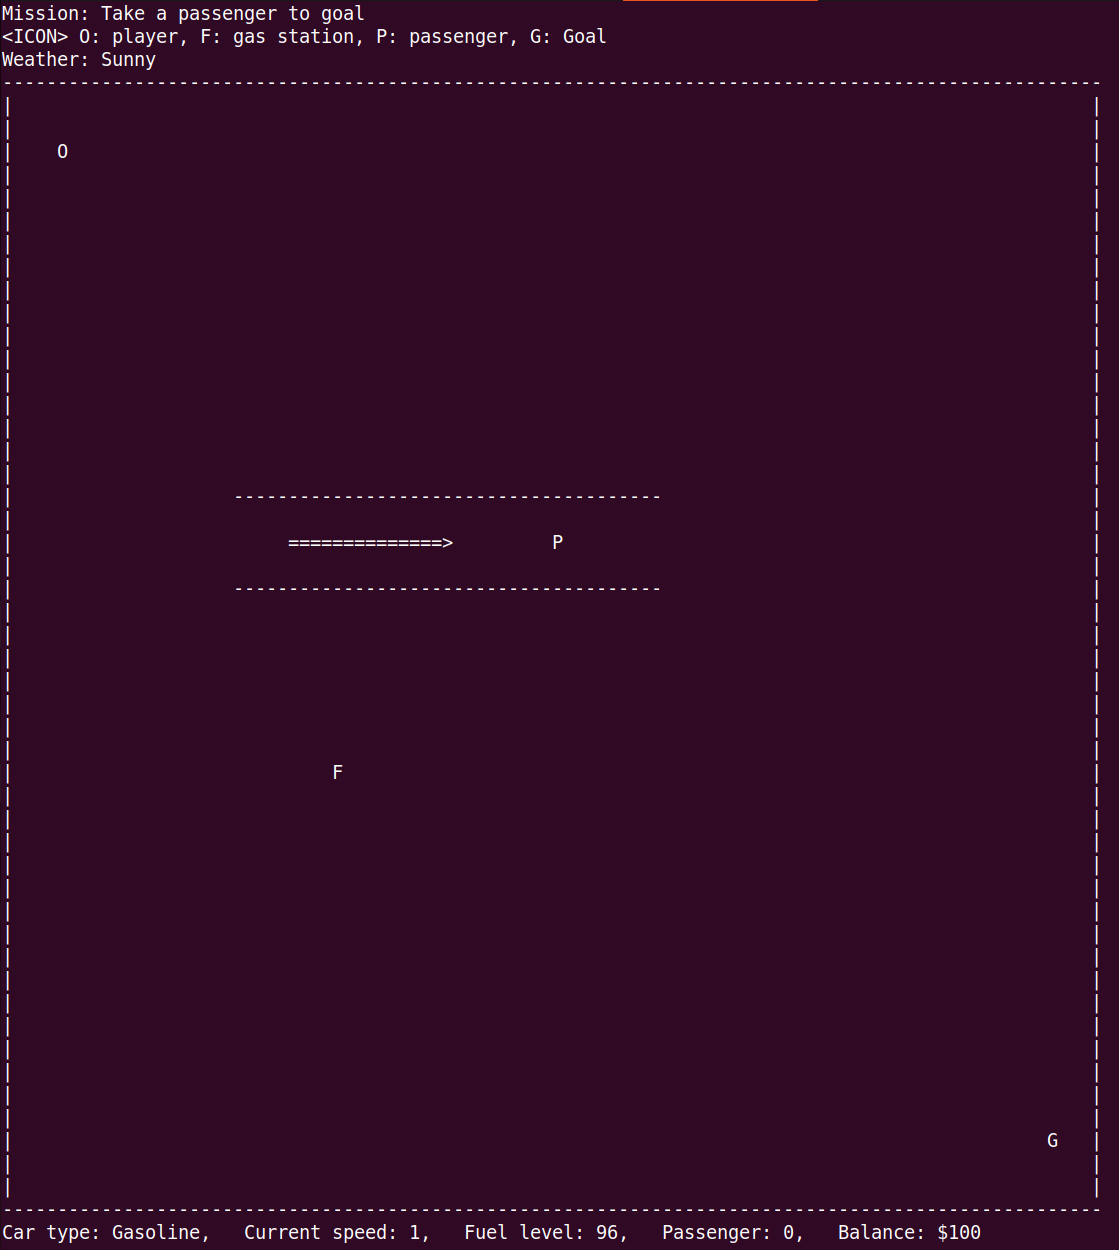
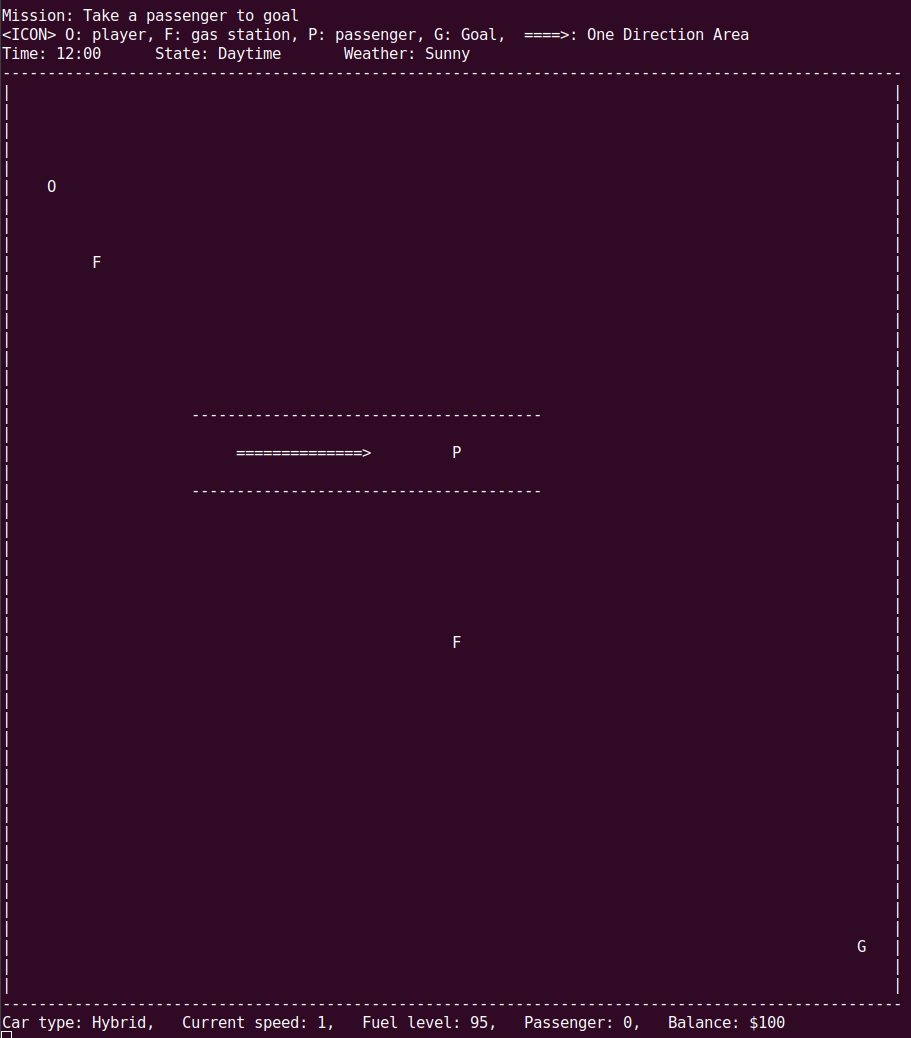
Update comments

diff --git a/src/main.cpp b/src/main.cpp
@@ -5,28 +5,33 @@
 #include <string>
 #include "Player.h"
 
+// 地図の大きさの設定
 const int row = 50;
 const int column = 100;
-const int reload_time = 1000;
+const int reload_time = 1000; // 地図を読み込む時間の設定
+// 地図のアイコンの設定
 const char fuel_station_icon = 'F';
 const char passenger_icon = 'P';
 const char goal_icon = 'G';
 const char player_icon = 'O';
+
+// 罰金等の設定
 const int gas_price = 20;
 const int direction_fine = 50;
 const int speed_limit_fine = 10;
 const int speed_limit = 4;
+
 const int sunrise_time = 7;
 const int sunset_time = 19;
 
 std::atomic_bool inputReady(false);
 std::string input;
 
+// ユーザーからのコマンドの受付
 void getInput() {
     while (true) {
         std::string command;
         std::cin >> command;
-
         if (command != "") {
             input = command;
             inputReady = true;
@@ -34,6 +39,7 @@ void getInput() {
     }
 }
 
+// 最新の状態の道路状況を描画する関数
 void printRace(char array1[row][column]) {
     for (int i = 0; i < row; i++) {
         for (int j = 0; j < column; j++) {
@@ -43,6 +49,7 @@ void printRace(char array1[row][column]) {
     }
 }
 
+// ベースとなる道路の描画の準備
 void initRace(char track[row][column], char padding_char) {
     for (int i = 0; i < row; i++) {
         for (int j = 0; j < column; j++) {
@@ -69,6 +76,7 @@ void initRace(char track[row][column], char padding_char) {
     }
 }
 
+// ガードレールへの衝突判定
 bool detectPosition(int player_position_x, int player_position_y, char track[row][column]){
     if (player_position_x > column || player_position_x < 0){
         return false;
@@ -82,6 +90,7 @@ bool detectPosition(int player_position_x, int player_position_y, char track[row
     return true;
 }
 
+// ユーアーの入力に応じた次のプレイヤーの座標の設定
 bool movePlayer(int& player_position_x, int& player_position_y, const std::string& direction, char track[row][column], Player player) {
     int new_player_position_x = player_position_x;
     int new_player_position_y = player_position_y;
@@ -121,6 +130,7 @@ int main() {
     std::thread inputThread(getInput);
     Player player(car_type);
 
+    // 各ポイントの初期位置の設定
     int player_position_x = 5;
     int player_position_y = 1;
     int fuel_station_1_x = 50;
@@ -138,6 +148,7 @@ int main() {
     std::string day_state;
 
     while (true) {
+        // 時間によって昼、夜の状態を変更
         if (time >= sunrise_time && time <= sunset_time ){
             padding_char = ' ';
             day_state = "Daytime";
@@ -146,18 +157,21 @@ int main() {
             day_state = "Night";
         }
 
+        // 10%の確率で天候を雨に設定
         std::srand(static_cast<unsigned>(std::time(nullptr)));
         int weather_number = std::rand() % 10;
-        if (weather_number > 8){
+        if (weather_number == 9){
             weather = "Rain";
         } else {
             weather = "Sunny";
         }
 
+        // 現在のゲーム状況の出力
         std::cout << "Mission: Take a passenger to goal" << std::endl;
-        std::cout << "<ICON> O: player, F: gas station, P: passenger, G: Goal" << std::endl;
+        std::cout << "<ICON> O: player, F: gas station, P: passenger, G: Goal,  ====>: One Direction Area" << std::endl;
         std::cout << "Time: " << time << ":00      State: " << day_state << "       Weather: " << weather<< std::endl;
 
+        // 最新の状態での地図の描画の実行
         char track[row][column];
         initRace(track, padding_char);
         if (player.getPassenger() == 0) {
@@ -170,6 +184,7 @@ int main() {
         printRace(track);
         player.showInfo();
 
+        // 一方通行の道路で逆走した場合の処理
         if ((player_position_x > 20) && (player_position_x < 60) && (player_position_y > 18) && (player_position_y < 22)) {
             if (direction == "-x") {
                 std::cout << "You break the one-direction path rule, You have to pay $" << direction_fine << std::endl;
@@ -177,52 +192,63 @@ int main() {
             }
         }
 
+        // 速度超過した場合の処理
         if (player.getSpeed() > speed_limit) {
             std::cout << "You exceeded the speed limit 4, You have to pay $" << speed_limit_fine << std::endl;
             player.pay(speed_limit_fine);
         }
 
+        // 燃料の消費
         player.consumeFuel();
+
+        // リロードの時間の調整
         std::this_thread::sleep_for(std::chrono::milliseconds(reload_time));
 
+        //　時刻の設定
         if (time >= 23) {
             time = 0;
         } else{
             time += 1;
         }
 
+        // ガスステーション1での給油処理
         if ((player_position_x == fuel_station_1_x) && (player_position_y == fuel_station_1_y)) {
             player.refuel();
             player.pay(gas_price);
         }
 
+        // ガスステーション2での給油処理
         if ((player_position_x == fuel_station_2_x) && (player_position_y == fuel_station_2_y)) {
             player.refuel();
             player.pay(gas_price);
         }
 
+        // 乗客を乗せる処理
         if ((player_position_x == passenger_position_x) && (player_position_y == passenger_position_y)) {
             player.passengerRide();
         }
 
+        // ゲームクリアの処理
         if ((player.getPassenger() == 1) &&
             (player_position_x == goal_position_x) && (player_position_y == goal_position_y)) {
             std::cout << "Clear: Well Done!!" << std::endl;
             break;
         }
 
+        // エンジン切れでのゲームオーバーの条件
         if (player.getFuel() < 0) {
             std::cout << "GAME OVER: There is no fuel" << std::endl;
             break;
         }
 
+        // 破産でのゲームオーバーの条件
         if (player.getBalance() < 0) {
             std::cout << "GAME OVER: Bankrupt" << std::endl;
             break;
         }
 
+        // ユーザーの入力のゲームへの反映
         if (inputReady) {
-            // Handle user input here
             if (input == "h") {
                 direction = player.goLeft();
             } else if (input == "l") {
@@ -249,6 +275,7 @@ int main() {
         }
         std::cout << std::endl << std::endl;
 
+        // ガードレールにぶつかった場合、ループを抜ける
         if (not movePlayer(player_position_x, player_position_y, direction, track, player)){
             break;
         }

diff --git a/src/Player.cpp b/src/Player.cpp
@@ -1,6 +1,7 @@
 #include "Player.h"
 #include <iostream>
 
+// ガソリンカーかハイブリッドカーを作るコンストラクタ
 Player::Player(char car_type) {
     speed = 1;
     fuel = 100;
